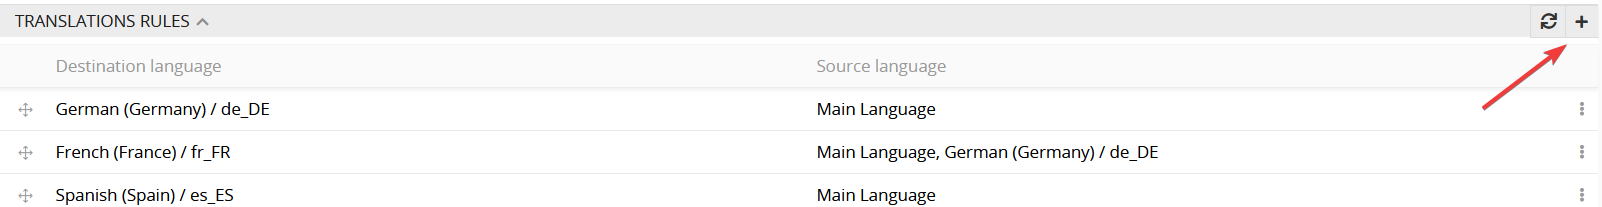
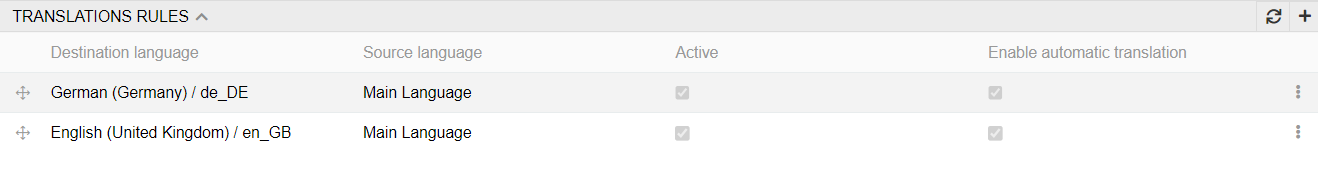
translation-updates

diff --git a/modules/translations.md b/modules/translations.md
@@ -25,11 +25,18 @@ Possible values are:
 
 If the language you want to translate to does not exist in translation rules when translating module will just copy information from a source box without translating it.
 
-### "Translated" option configuration
+### "Approved" option configuration
 
-In the module settings you may enable an additional parameter for your multilingual text fields, namely the "translated" option. By default, its value is "false", however if you set this value to "true" you will be able to mark every multilingual field or attribute value as "translated". This value will be set automatically to "true" if the "automated translation" is enabled. You may set it to "false" if you are not happy with the quality of machine translation and want to edit it later. After the edition you may set the "translated" value to "true" manually to mark it as correctly translated.
+In the module settings you may enable an additional parameter for your multilingual text fields, namely the "approved" option. Here you can also determine what action should be taken on the "approved" checkbox when a field is automatically translated. Possible values are:
+- set "approved" checkbox: checkbox is checked after the record has been translated automatically
+- unset "approved" checkbox: the checkbox is cleared after the record has been translated automatically
+- do nothing: the value of the checkbox does not change after automatic translation
 
-Please note that any information concerning the "translated" parameter hereafter is effective only in case it is enabled in settings.
+![approved_checkbox](_assets/translation/approved-checkbox.png) 
+
+You can use this value from "true" to "false" if you are not happy with the quality of machine translation and want to edit it later. After the edition you may set the "translated" value to "true" manually to mark it as correctly translated.
+
+Please note that any information concerning the "approved" parameter hereafter is effective only in case it is enabled in settings.
 
 ### Translation rules configuration
 
@@ -37,16 +44,18 @@ On the `Translation rules` panel all your translation configurations are reflect
 
 ![translation_rules_panel_create](_assets/translation/translation-rules-panel-create.png)  
  
-In the side-popup window you will be able to set up your translation rule. Only after you configure and add the rule for a particular destination language it will be available for automated translation.
+In the side-popup window you will be able to set up your translation rule. Only after you configure, add the rule for a particular destination language and set it as "Active" it will be available for translation. To be able to translate records  using a rule automatically, you need to set the checkbox "Enable automatic translation" for this rule. 
 
 ![new_translation_rule](_assets/translation/new-translation-rule.png)  
 
 - **Destination language** – the language to which the translation is made.
 - **Source language** – the language which is the source for the translation.
+- **Active** - the status of the translation rule.
+- **Enable automatic translation** - allow to use this rule for automatic translation.
 
-Please note, if there is no translation rule for some language as a destination language, the translations to that language will not be made, either automatically or by clicking the `Translate` button.
+Please note, if there is no translation rule for some language as a destination language or if the rule is inactive, the translations to that language will not be made, either automatically or by clicking the `Translate` button.
 
-For some destination language only one rule can be created. For each destination language multiple source languages can be selected. By changing the sorting order of the source languages, you define the order, in which source language the value is looked up. E.g., if for the Spanish as a destination language the source languages are English and German – the system will look up for the value in English, if it available it will be taken, if not the system will take the value for the second language, namely German, and so in.
+For each destination language only one source languages can be selected. If you want to have multiple source languages for the same destination language, you can create multiple rules for it. By changing the sorting order of the rules, you define the order, in which source language the value is looked up. E.g., if for the Spanish as a destination language there are two translation rules with English and German source languages  – the system will look up for the value in English, if it is available (active/enable for automatic translation) it will be taken, if not the system will take the value for the second language, namely German, and so in.
 
 ### Language configuration
 
@@ -71,44 +80,35 @@ To switch to the edit mode, hover the mouse over the field you want to edit and 
 
 ### Edit mode
 
-After the "Translations" module is properly installed and configured additional meta data appears for each multilingual field:
+After the "Translations" module is properly installed and translation rules are configured additional meta data appears for each multilingual field:
 
 ![translation_options](_assets/translation/translation-options.png) 
 
-You have two checkboxes – `translated` and `translate automatically` as well as an additional button `Translate`.
+The following options appear for multilingual fields and attributes:
 
-- **translate automatically** – translation for the field/attribute value above will be made automatically as soon as the source language value is set.
-- **translated** – this checkbox is used to mark the field/attribute value as translated.
+- **approved** – this checkbox is used to mark the field/attribute value as translated, available for all multilingual fields and attributes.
+- **not translate from** - if checked, translation is triggered for no language. The value of the checkbox is not saved, it is advisable to use it only when editing a record in edit mode, if you do not want the change of this field (attribute) to affect fields (attribute) in other languages. This checkbox appears only if there is at least one translation rule from this language and checkboxes "Active" and "Enable automatic translation" are set for it. 
+- **not translate to** - if this checkbox is set, automatic translation of this field (attribute) does not occur when editing fields (attributes) in other languages. The value of the checkbox is not stored, it is possible to use it only when editing a record in edit mode. This checkbox appears only if there is at least one translation rule to this language, checkboxes "Active" and "Enable automatic translation" are set for it and checkbox "translate automatically" is set for the field (attribute). 
 - **Translate** – if the value has not been translated automatically, you may still provide it with the machine translation by clicking the `Translate` button. Please take into consideration that this button will not be available if the translation rule for this language is not created.
 
-Please note, the checkbox `translated` will be automatically set if the checkbox `translate automatically` for the value is set and translation is executed. 
-You still can unset this checkbox, if you are not satisfied with the quality of the translation, or set it manually, if translation is done manually. In no other case this checkbox is set or unset by the system automatically.
+If you want your multilingual value to be translated automatically you should set `translate automatically` checkbox in field (attribute) configuration. 
 
-Set `translate automatically` checkbox if you want your multilingual value to be translated into automatically. Translation is executed for all values marked as `translate automatically` in all languages specified in translation rules as destination languages for which the language of the edited value is set as one of the source languages. In other words, translations will be executed automatically for all corresponding fields/attribute values for every destination language specified in the translation rule. 
+![translate_automatically](_assets/translation/translate-automatically.png) 
 
-The `translated` checkbox carries out an information function and can be used to mark the value that has been translated either automatically or manually.
+Translation is executed for all values marked as `translate automatically` in all languages specified in translation rules as destination languages for which the language of the edited value is set as one of the source languages if the rule is active and automatic translation is enabled for it. In this case translations will be executed automatically for all corresponding fields/attribute values for every destination language specified in the translation rule. 
+
+The `approved` checkbox carries out an information function and can be used to mark the value that has been translated either automatically or manually. For each multilingual field/attribute the module adds additional meta data and action fields, which can be used anywhere in the system:
+- **"Field name" / Approved** – metadata field: possible values are "True" or "False". These field can be used for mass actions, import/export feeds and search and filtering.
 
 The `Translate` button on the right corner under the text box is used to apply a machine translation for a certain value, regardless of whether both checkboxes are set or not.
 
-In the edit mode all the changes/translations can be still changed, and you may change also the `translate automatically` and `translated` checkboxes anyway you like.
-
-Please note, the option `Translate automatically` is available only for the languages, for which a translation rule is created. And a translation rule can be created only if the destination language is supported. E.g., Ukrainian is not available for translations via DeepL, so no translation rule can be created for it.
-For some languages the automated translation option may not be available. To enable it, you need to configure the **Translation rules** for this language.
+In the edit mode all the changes/translations can be still changed, and you may change also the `not translate from`, `not translate to` and `translated` checkboxes anyway you like.
 
 ### In-line edit mode
 
 Changing some values via in-line edit mode may trigger automatic translations, if for the corresponding values the checkbox `translate automatically` is set. Thus, the new translated values for the corresponding fields are automatically stored in the database, without possibility to review these changes. So, if you always need to review the changes before saving a data record, please always use the edit mode. 
 
 Please note, if you change the "translate automatically" value to "true" the automated translation will be triggered only after the editing the source language value.
-
-## Additional possibilities
-
-For each multilingual field/attribute the module adds additional meta data and action fields, which can be used anywhere in the system.
-- **"Field name": translate automatically** – meta data field: possible values are "True" or "False".
-- **"Field name": translated** – metadata field: possible values are "True" or "False".
-- **"Field name" | Translate** – action field: usage of this field will trigger a click on the button `Translate`.
-
-These fields can be used for mass actions, import/export feeds and search and filtering.
 
 ### Mass action
 
@@ -118,29 +118,25 @@ To apply an action to multiple entities simultaneously, choose the required enti
 
 ![mass_update](_assets/translation/mass-update.png)   
 
-In the opened window click the `Select field` dropdown menu. For each multilingual field three actions are available.
+In the opened window click the `Select field` dropdown menu. For each multilingual field two actions are available.
 
 ![mass_update_select_field](_assets/translation/mass-update-select-field.png)  
 
 Possible additional choices are:
-- **"Field name": translate automatically** – choose this field and set/unset the checkbox to change the meta data value `translate automatically` for the field "Field name" for the selected data records.
-- **"Field name": translated** – choose this field and set/unset the checkbox to change the meta data value `translated` for the field "Field name" for the selected data records.
-- **"Field name" | Translate** – usage of this field triggers a click on the `Translate` button for the field "Field name" for the selected data records.
+- **"Field name" / Approved** – choose this field and set/unset the checkbox to change the meta data value `approved` for the field "Field name" for the selected data records.
+- **Translate** – usage of this field triggers a click on the `Translate` button for the field "Field name" for the selected data records.
 
 #### Updating attribute values
 
-<!-- please add description here -->
+The same mass translation actions as for fields can be performed for multilingual attributes. To do this, you need to click the "Select attribute" button in the "Mass update" window and select the desired attribute. In the appeared window you can choose the scope and language of the attribute you want to change by mass action and click on "Add" button.
 
-### Usage of Import & Export Feeds
+![mass_update_attributes](_assets/translation/mass-update-attributes.png)  
 
-Additional meta data for multilingual fields or attributes can also be used for import and export.
+In the next window, a field for entering the attribute value and a "Translate" checkbox will appear on the bottom right. Usage of this checkbox triggers a click on the `Translate` button for the choosing attribute for the selected data records. If you check this box, the field for entering the attribute will become inactive. If any value is already set in it, it will be deleted.
 
-With "Translations" module the extended functionality will be provided for the export/import feeds as well. In the configurator settings you will be able to use these "additional fields". 
+You can also perform a mass translation of all possible fields and attributes to a specific language for selected records. To do this, select the required records of the entity, click the "Actions" button and select an option `Translate / language`. After that, all records in the selected language will be translated according to the first active rule, for which this language is selected as "Destination language" and the checkbox "Enable automatic translation" is set.
 
-![configurator](_assets/translation/configurator.png) 
+You can also perform a global translation of all records in the system according to the selected rule. To do this, go to the module settings, select the required rule in the translation rules panel, click on the three dots to the right of it and select the "Apply globally" option.
 
-Possible additional choices are:
+![apply_globally](_assets/translation/apply-globally.png)  
 
-- **"Field name": translate automatically** – choose this option to export/import the "translate automatically" value of the corresponding field.
-- **"Field name": translated** – choose this option to export/import the value indicating whether this field has been translated. 
-- **"Field name" | Translate** – this option "executes" a click on the `Translate` button and executes a machine translation for the specified field value. It can only be used in import feeds, not in export feeds.
